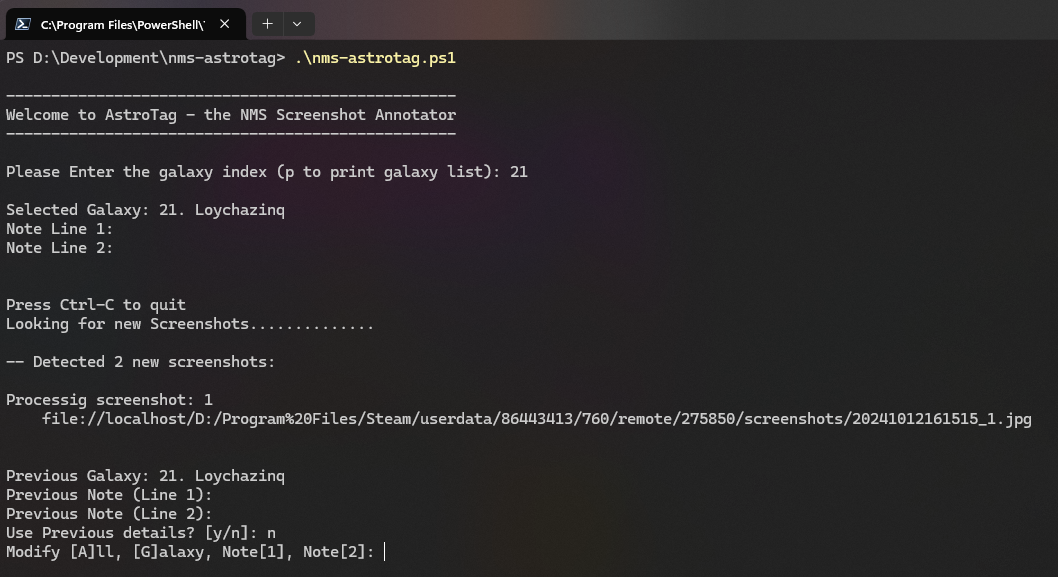
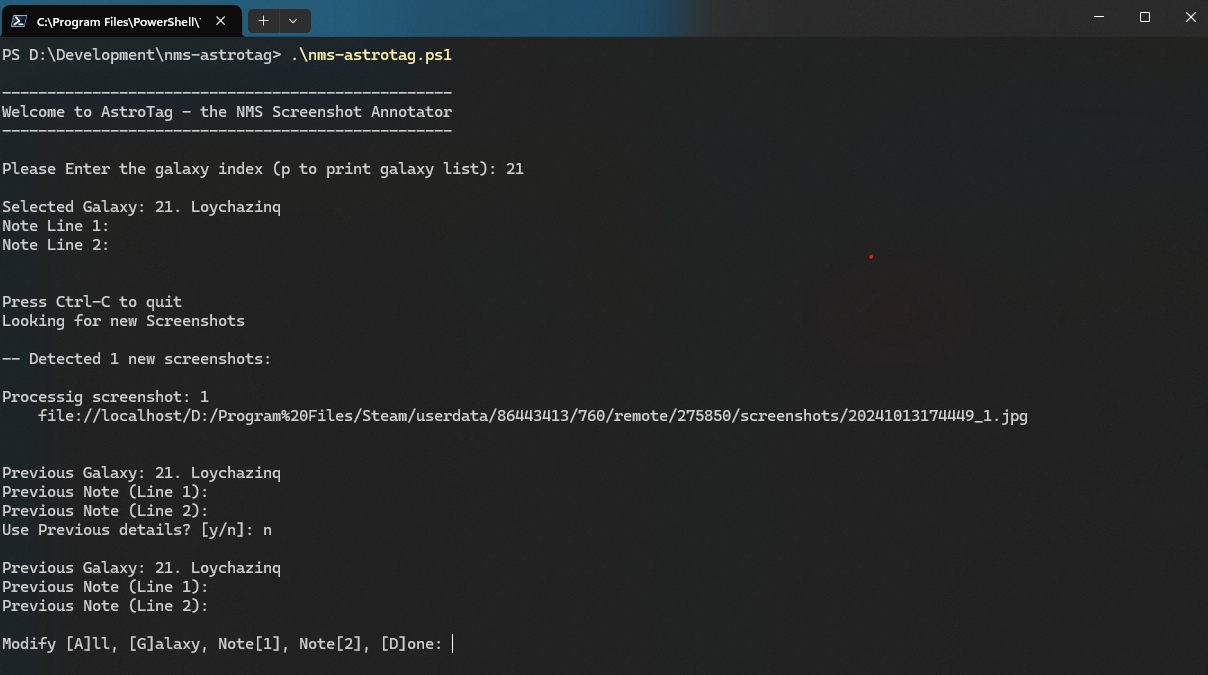
allows multiple edits at once before returning to the confirmation prompt

Changed region(s): [[0.0, 0.0, 0.8422, 0.6551], [0.0, 0.6863, 0.9981, 0.9671]]

diff --git a/README.md b/README.md
@@ -82,7 +82,7 @@ You need to confirm the previous entered annotation details before AstroTag will
 
 ![Screenshot Identified Screen](Images/02.png)
 
-You can modify all information (Galaxy and lines 1 and 2 of the notes section) by entering "a", or just the galaxy details by entering in 'g', or just lines 1 or 2 of the notes section by entering "1" or "2":
+You can modify all information (Galaxy and lines 1 and 2 of the notes section) by entering "a", or just the galaxy details by entering in 'g', or just lines 1 or 2 of the notes section by entering "1" or "2". Enter "d" when you are done editing to return to the annotation confirmation screen:
 ![Screenshot Identified Screen b](Images/02b.png)
 
 At anytime when prompted to enter galaxy ID's, Entering 'p' will list all 263 galaxies. You can use the console's scroll bars to browse through the list and identify the ID for your desired galaxy. The galaxies are color coded based on galaxy type (normal, lush, harsh, empty):
